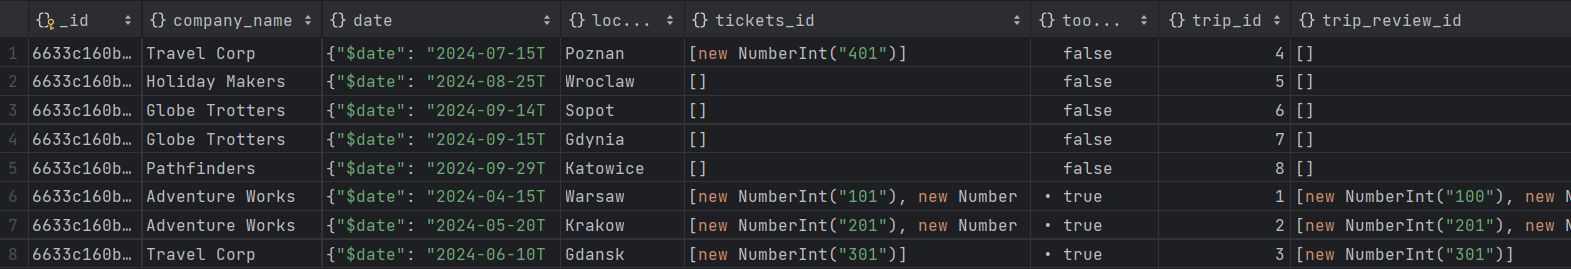
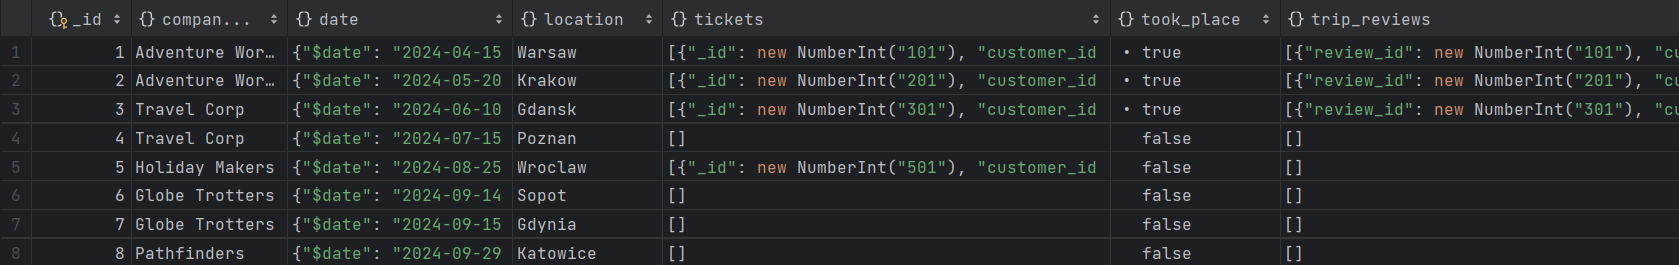
UPD zad2

diff --git a/lab2/Lab2-cwd.md b/lab2/Lab2-cwd.md
@@ -336,7 +336,7 @@ db.Customers.insertMany([
 ])
 
 db.Trips.insertMany([
-  { "_id": 1, "company_id": 1, "tickets_id": [101, 102], "date": {"$date": "2024-04-15T00:00:00Z"}, "location": "Warsaw", "trip_review_id": [100, 101], "took_place": true },
+  { "_id": 1, "company_id": 1, "tickets_id": [101, 102], "date": {"$date": "2024-04-15T00:00:00Z"}, "location": "Warsaw", "trip_review_id": [101, 102], "took_place": true },
   { "_id": 2, "company_id": 1, "tickets_id": [201], "date": {"$date": "2024-05-20T00:00:00Z"}, "location": "Krakow", "trip_review_id": [201], "took_place": true },
   { "_id": 3, "company_id": 2, "tickets_id": [301], "date": {"$date": "2024-06-10T00:00:00Z"}, "location": "Gdansk", "trip_review_id": [301], "took_place": true },
   { "_id": 4, "company_id": 2, "tickets_id": [], "date": {"$date": "2024-07-15T00:00:00Z"}, "location": "Poznan", "trip_review_id": [], "took_place": false },
@@ -392,20 +392,45 @@ Kolekcje po wypełnieniu danymi:
 
 #### c)  Analiza wad/zalet danego podejścia na konkretnych przykładach
 
-- Wyświetlenie komunikatów wszystkich reviews, mających ocenę 5
+- Wyświetlenie wszystkich ocen z `reviews` wraz z `company_name` dla każdej wycieczki `trip`, która już się odbyła
 
-Skoro mamy osobną kolekcję Reviews, nie będzie to stanowiło problemu, ponieważ do wykonania tego zadania wystarczy dość proste polecenie:
+Przez to, że mamy umieszczone te dane w kilku różnych kolekcjach, zapytanie będzie składać się z kilku operatorów, a czas wykonania będzie nie najlepszy, ponieważ potrzebujemy łączyć kilka tabel. W drugim podejściu będzie pokazane alternatywne wykonanie tego zypatania.
 
 ```js
-db.Reviews.find({stars: 5}, {_id: 0, trip_id: 1, review_description: 1})
+db.Trips.aggregate(
+{$match: {took_place: true}},
+
+{$lookup: {from: "Companies",
+           localField: "company_id",
+           foreignField: "_id",
+           as: "Company"}},
+
+{$unwind: "$Company"},
+
+{$lookup: {from: "Reviews",
+           localField: "trip_review_id",
+           foreignField: "_id",
+           as: "Review"}},
+
+{$project: {"company_name" : "$Company.company_name", location: 1, "trip_reviews" : "$Review.stars"}}
+)
 ```
 
 Wynik danego zypytania:
 
-![](img/70.png)
+![](img/71.png)
 
+- Wyświetlenie wszystkich biletów `tickets`, które mają status "Paid" albo "New"
 
+W tym przypadku w łatwy sposób można skorzystać z kolekcji Tickets, która zawiera interesujące nas informacje (wystarczy dodać prosty warunek). Natomiast w strukturze z zagnieżdżonymi dokumentami mielibyśmy odwoływaś się do nich wewnątrz innych kolekcji (będzie pokazane niżej).
 
+```js
+db.Tickets.find({$or : [{ticket_status: 'P'}, {ticket_status: 'N'}]})
+```
+
+Wynik danego zypytania:
+
+![](img/72.png)
 
 ### Podejście dokumentowe
 
@@ -433,18 +458,25 @@ W takim podejściu przekształciliśmy poprzednią strukturę tabelaryczną, uż
 Przykładowa struktura bazy danych wygląda następująco:
 
 ```js
-Companies
-{
-	"_id": Number,
-	"organized_trips_id": [Number], 
-	"company_name": String
-}
-
 Customers
 {
 	"_id": Number,
-	"owned_tickets_id": [Number],  
-	"customer_review_id": [Number],
+	"owned_tickets": [
+            {
+                "_id": Number,  
+                "reserved_seat_no": Number, 
+                "ticket_status": String
+            }
+    ],  
+	"customer_reviews": [
+            {
+                "_id": Number, 
+                "trip_id": Number, 
+                "review_date": Date, 
+                "stars": Number, 
+                "review_description": String
+            }
+    ],
 	"first_name": String,
 	"last_name": String, 
 }
@@ -452,34 +484,28 @@ Customers
 Trips 
 {
 	"_id": Number,  
-	"company_id": [Number], 
-	"tickets_id": [Number], 
+	"company_name": String, 
+	"tickets": [
+            {
+                "_id": Number,  
+                "reserved_seat_no": Number, 
+                "ticket_status": String
+            }
+    ], 
 	"date": Date, 
 	"location": String, 
-	"trip_review_id": [Number],
+	"trip_reviews": [
+            {
+                "_id": Number, 
+                "customer_id": Number,
+                "review_date": Date, 
+                "stars": Number, 
+                "review_description": String
+            }
+    ],
     "took_place": Boolean
 }
 
-Tickets 
-{
-	"_id": Number,  
-	"trip_id": [Number], 
-	"reserved_seat_no": Number, 
-    "ticket_status": String, 
-    "first_name": String,
-	"last_name": String 
-}
-
-Reviews
-{
-	"_id": Number, 
-	"customer_id": Number,
-	"trip_id": Number, 
-	"company_id": Number, 
-	"review_date": Date, 
-	"stars": Number, 
-	"review_description": String
-}
 ```
 
 Stworzenie bazy danych według wyżej przedstawionego pomysłu:
@@ -502,44 +528,89 @@ Kilka przydatnych informacji:
 
 ```js
 db.Customers.insertMany([
-  { "customer_id": 1,
-  "owned_tickets": [{ "ticket_id": 101, "trip_id": 1, "reserved_seat_no": 1, "ticket_status": 'P' },
-  { "ticket_id": 102, "trip_id": 1, "reserved_seat_no": 2, "ticket_status": 'P' },
-  { "ticket_id": 504, "trip_id": 5, "reserved_seat_no": 4, "ticket_status": 'C' }],
-  "customer_reviews": [{ "review_id": 101, "trip_id": 1, "review_date": {"$date": "2023-03-01T00:00:00Z"}, "stars": 5, "review_description": "Excellent experience!" },
-                       { "review_id": 102, "trip_id": 1, "review_date": {"$date": "2023-03-02T00:00:00Z"}, "stars": 4, "review_description": "Very good trip, well organized." },
-  ],
-  "first_name": "John", "last_name": "Doe" },
+  { "_id": 1, "owned_tickets": [
 
-  { "customer_id": 2,
-  "owned_tickets": [{ "ticket_id": 201, "trip_id": 2, "reserved_seat_no": 1, "ticket_status": 'P' }],
-  "customer_reviews": [{ "review_id": 201, "trip_id": 2, "review_date": {"$date": "2023-04-01T00:00:00Z"}, "stars": 3, "review_description": "Decent, but could be better." },
-  ],
-  "first_name": "Anna", "last_name": "Smith" },
+  { "_id": 101, "trip_id": 1, "reserved_seat_no": 1, "ticket_status": 'P'},
+  { "_id": 504, "trip_id": 5, "reserved_seat_no": 4, "ticket_status": 'C'}
 
-  { "customer_id": 3,
-  "owned_tickets": [{ "ticket_id": 301, "trip_id": 3, "reserved_seat_no": 1, "ticket_status": 'N' }],
-  "customer_reviews": [{ "review_id": 301, "trip_id": 3, "review_date": {"$date": "2023-04-26T00:00:00Z"}, "stars": 5, "review_description": "It was super!" },
-], "first_name": "David", "last_name": "Brown" },
+  ], "customer_reviews": [
+        { "review_id": 101, "trip_id": 1, "review_date": {"$date": "2023-03-01T00:00:00Z"}, "stars": 5, "review_description": "Excellent experience!" }
+  ], "first_name": "John", "last_name": "Doe" },
 
-  { "customer_id": 4,
-  "owned_tickets": [{ "ticket_id": 501, "trip_id": 5, "reserved_seat_no": 1, "ticket_status": 'P' }, { "ticket_id": 502, "trip_id": 5, "reserved_seat_no": 2, "ticket_status": 'N' },
-  { "ticket_id": 503, "trip_id": 5, "reserved_seat_no": 1, "ticket_status": 'C' }],
-  "customer_reviews": [], "first_name": "Lisa", "last_name": "White" },
+  { "_id": 2, "owned_tickets": [
 
-  { "customer_id": 5,
-  "owned_tickets": [], "customer_reviews": [], "first_name": "Mark", "last_name": "Taylor" }
+  { "_id": 201, "trip_id": 2, "reserved_seat_no": 1, "ticket_status": 'P'}
+
+  ], "customer_reviews": [
+
+  { "review_id": 201, "customer_id": 2, "trip_id": 2, "review_date": {"$date": "2023-04-01T00:00:00Z"}, "stars": 3, "review_description": "Decent, but could be better." }
+
+  ], "first_name": "Anna", "last_name": "Smith" },
+  { "_id": 3, "owned_tickets": [
+
+  { "_id": 102, "trip_id": 1, "reserved_seat_no": 2, "ticket_status": 'P'},
+  { "_id": 301, "trip_id": 3, "reserved_seat_no": 1, "ticket_status": 'N'}
+
+  ], "customer_reviews": [
+
+  { "review_id": 102, "trip_id": 1, "review_date": {"$date": "2023-03-02T00:00:00Z"}, "stars": 4, "review_description": "Very good trip, well organized." },
+  { "review_id": 301, "trip_id": 3, "review_date": {"$date": "2023-04-26T00:00:00Z"}, "stars": 5, "review_description": "It was super!" }
+
+
+  ], "first_name": "David", "last_name": "Brown" },
+  { "_id": 4, "owned_tickets": [
+
+   { "_id": 501, "trip_id": 5, "reserved_seat_no": 1, "ticket_status": 'P'},
+   { "_id": 502, "trip_id": 5, "reserved_seat_no": 2, "ticket_status": 'N'}
+
+  ], "customer_reviews": [], "first_name": "Lisa", "last_name": "White" },
+  { "_id": 5, "owned_tickets": [{ "_id": 503, "trip_id": 5, "reserved_seat_no": 1, "ticket_status": 'C'}], "customer_reviews": [], "first_name": "Mark", "last_name": "Taylor" }
 ])
 
 db.Trips.insertMany([
-  { "trip_id": 1, "company_name": "Adventure Works", "tickets_id": [101, 102, 103], "date": {"$date": "2024-04-15T00:00:00Z"}, "location": "Warsaw", "trip_review_id": [100, 101], "took_place": true },
-  { "trip_id": 2, "company_name": "Adventure Works", "tickets_id": [201, 202], "date": {"$date": "2024-05-20T00:00:00Z"}, "location": "Krakow", "trip_review_id": [201, 202], "took_place": true },
-  { "trip_id": 3, "company_name": "Travel Corp", "tickets_id": [301], "date": {"$date": "2024-06-10T00:00:00Z"}, "location": "Gdansk", "trip_review_id": [301], "took_place": true },
-  { "trip_id": 4, "company_name": "Travel Corp", "tickets_id": [401], "date": {"$date": "2024-07-15T00:00:00Z"}, "location": "Poznan", "trip_review_id": [], "took_place": false },
-  { "trip_id": 5, "company_name": "Holiday Makers", "tickets_id": [], "date": {"$date": "2024-08-25T00:00:00Z"}, "location": "Wroclaw", "trip_review_id": [], "took_place": false },
-  { "trip_id": 6, "company_name": "Globe Trotters", "tickets_id": [], "date": {"$date": "2024-09-14T00:00:00Z"}, "location": "Sopot", "trip_review_id": [], "took_place": false },
-  { "trip_id": 7, "company_name": "Globe Trotters", "tickets_id": [], "date": {"$date": "2024-09-15T00:00:00Z"}, "location": "Gdynia", "trip_review_id": [], "took_place": false },
-  { "trip_id": 8, "company_name": "Pathfinders", "tickets_id": [], "date": {"$date": "2024-09-29T00:00:00Z"}, "location": "Katowice", "trip_review_id": [], "took_place": false }
+  { "_id": 1, "company_name": "Adventure Works", "tickets": [
+
+  { "_id": 101, "customer_id": 1, "reserved_seat_no": 1, "ticket_status": 'P'},
+  { "_id": 102, "customer_id": 3, "reserved_seat_no": 2, "ticket_status": 'P'}
+
+  ], "date": {"$date": "2024-04-15T00:00:00Z"}, "location": "Warsaw", "trip_reviews": [
+
+  { "review_id": 101, "customer_id": 1, "review_date": {"$date": "2023-03-01T00:00:00Z"}, "stars": 5, "review_description": "Excellent experience!" },
+  { "review_id": 102, "customer_id": 3, "review_date": {"$date": "2023-03-02T00:00:00Z"}, "stars": 4, "review_description": "Very good trip, well organized." }
+
+
+  ], "took_place": true },
+  { "_id": 2, "company_name": "Adventure Works", "tickets": [
+
+  { "_id": 201, "customer_id": 2, "trip_id": 2, "reserved_seat_no": 1, "ticket_status": 'P'}
+
+  ], "date": {"$date": "2024-05-20T00:00:00Z"}, "location": "Krakow", "trip_reviews": [
+
+  { "review_id": 201, "customer_id": 2, "review_date": {"$date": "2023-04-01T00:00:00Z"}, "stars": 3, "review_description": "Decent, but could be better." }
+
+
+  ], "took_place": true },
+  { "_id": 3, "company_name": "Travel Corp", "tickets": [
+
+  { "_id": 301, "customer_id": 3, "reserved_seat_no": 1, "ticket_status": 'N'}
+
+  ], "date": {"$date": "2024-06-10T00:00:00Z"}, "location": "Gdansk", "trip_reviews": [
+
+  { "review_id": 301, "customer_id": 3, "trip_id": 3, "review_date": {"$date": "2023-04-26T00:00:00Z"}, "stars": 5, "review_description": "It was super!" }
+
+  ], "took_place": true },
+  { "_id": 4, "company_name": "Travel Corp", "tickets": [], "date": {"$date": "2024-07-15T00:00:00Z"}, "location": "Poznan", "trip_reviews": [], "took_place": false },
+  { "_id": 5, "company_name": "Holiday Makers", "tickets": [
+
+  { "_id": 501, "customer_id": 4, "reserved_seat_no": 1, "ticket_status": 'P'},
+  { "_id": 502, "customer_id": 4, "reserved_seat_no": 2, "ticket_status": 'N'},
+  { "_id": 503, "customer_id": 5, "reserved_seat_no": 1, "ticket_status": 'C'},
+  { "_id": 504, "customer_id": 1, "reserved_seat_no": 4, "ticket_status": 'C'}
+
+  ], "date": {"$date": "2024-08-25T00:00:00Z"}, "location": "Wroclaw", "trip_reviews": [], "took_place": false },
+  { "_id": 6, "company_name": "Globe Trotters", "tickets": [], "date": {"$date": "2024-09-14T00:00:00Z"}, "location": "Sopot", "trip_reviews": [], "took_place": false },
+  { "_id": 7, "company_name": "Globe Trotters", "tickets": [], "date": {"$date": "2024-09-15T00:00:00Z"}, "location": "Gdynia", "trip_reviews": [], "took_place": false },
+  { "_id": 8, "company_name": "Pathfinders", "tickets": [], "date": {"$date": "2024-09-29T00:00:00Z"}, "location": "Katowice", "trip_reviews": [], "took_place": false }
 ])
 ```
 
@@ -555,14 +626,37 @@ Kolekcje po wypełnieniu danymi:
 
 #### c)  Analiza wad/zalet danego podejścia na konkretnych przykładach
 
-- Pierwsze
+- Wyświetlenie wszystkich ocen z `reviews` wraz z `company_name` dla każdej wycieczki `trip`, która już się odbyła
+
+Dzięki temu, że mamy umieszczone te dane w jednym miejscu, zapytanie będzie dość proste, a czas wykonania polecenia krótki, ponieważ nie potrzebujemy łączyć kilku tabel, jak to było pokazane wyżej w przypadku innego podejścia
+
+```js
+db.Trips.aggregate(
+    {$match: {"took_place": true}},
+    {$project: {company_name: 1, location: 1, "trip_reviews.stars": 1}}
+)
+```
 
 Wynik danego zypytania:
 
-Kod:
+![](img/70.png)
+
+- Wyświetlenie wszystkich biletów `tickets`, które mają status "Paid" albo "New"
+
+W tym przypadku Customer agreguje Tickets, więc potrzebujemy bardziej skomplikowanych zapytań aby dostać się do informacji zamieszczonych w dokumentach zagnieżdżonych. Natomiast w strukturze tablicowej, jak było pokazane wyżej, takie zapytanie jest bardziej przejrzyste, ponieważ wszystkie dane są na jednym poziome w ramach jednej kolekcji.
 
 ```js
+db.Customers.aggregate(
+    {$unwind: "$owned_tickets"},
+    {$match: {$or: [{"owned_tickets.ticket_status": 'P'}, {"owned_tickets.ticket_status": 'N'}]}},
+    {$project: {_id: 0, _id: "$owned_tickets._id", first_name: 1, last_name: 1, reserved_seat_no : "$owned_tickets.reserved_seat_no",
+    ticket_status: "$owned_tickets.ticket_status", trip_id: "$owned_tickets.trip_id"}}
+)
 ```
+
+Wynik danego zypytania:
+
+![](img/73.png)
 
 ---
 
